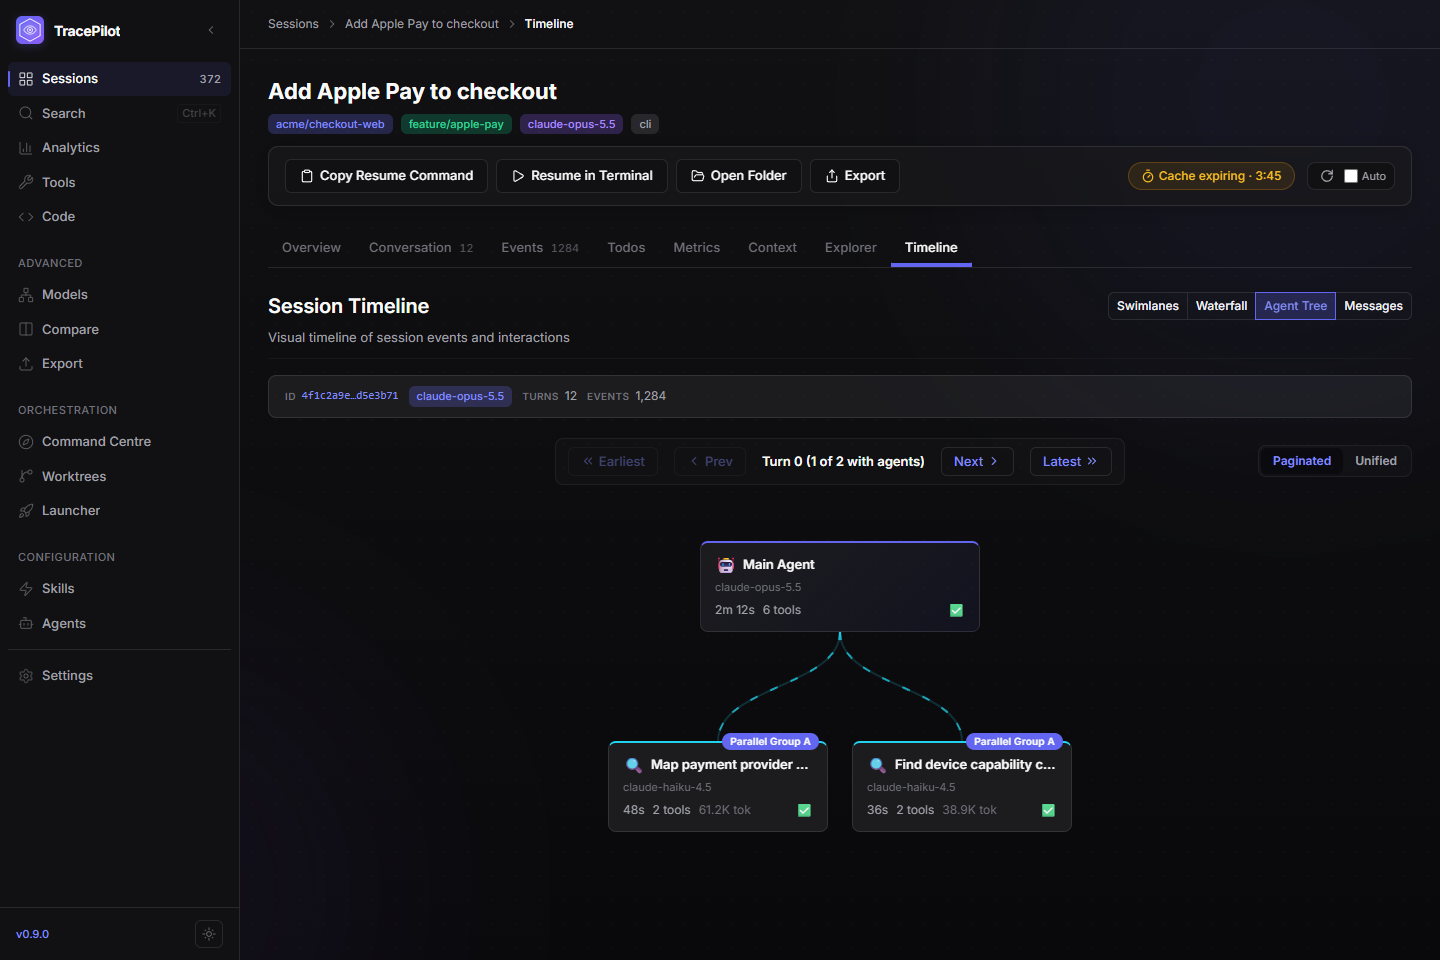
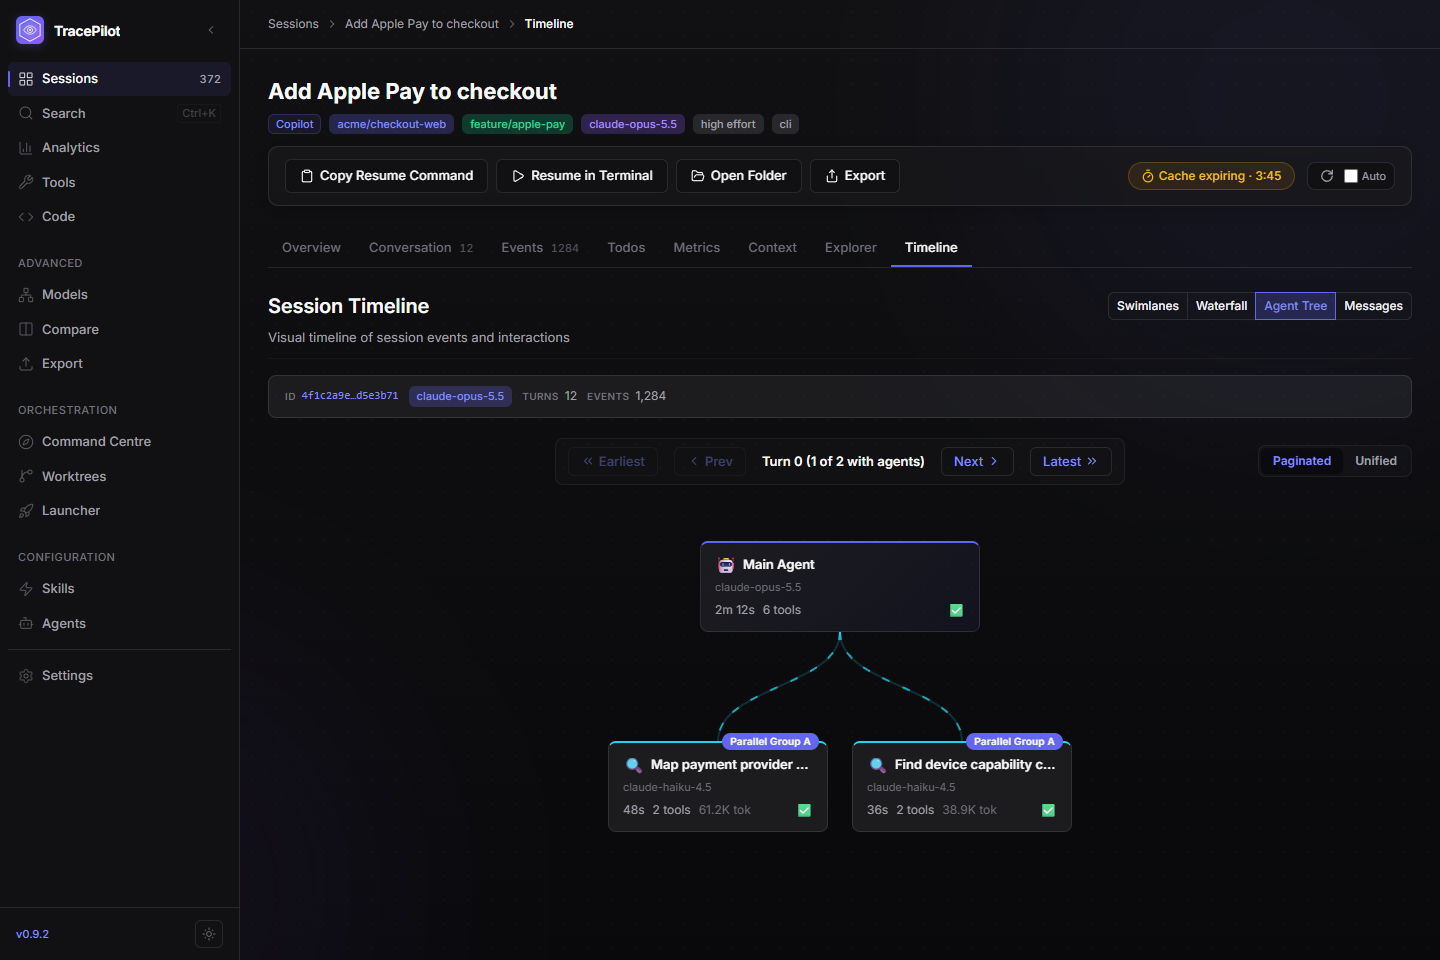
docs(readme): cover Claude Code sessions and refresh the screenshots
The README now describes TracePilot as a viewer for both Copilot CLI and
Claude Code sessions: where each source is read from, the source switch,
USD versus AI Credit costs, what stays Copilot-only, and the redesigned
Overview and analytics dashboards. The release how-to is cut to a pointer
to the release guide.

The README showcase now matches the current app:

- About a third of its sessions are Claude Code sessions (Claude Code
  model ids, no host), with Busy and Waiting run states.
- Analytics rows, costs and per-day USD are split by source; Tools has
  calls per day; the hero session has turn activity and high reasoning.
- The Analytics capture shows the Activity chart as lines, so Copilot and
  Claude Code read as two series. Capture `button` actions take a `role`.
- The visual harness turns Claude Code sessions on by default, as
  first-run setup does when it finds them. All 131 CI cases still
  capture without errors or missing fixtures.

The site export folds the showcase's sources back into its own
Copilot-priced view, so the landing page data is unchanged.

Changed region(s): [[0.1875, 0.0938, 0.5625, 0.1562]]

diff --git a/README.md b/README.md
@@ -5,14 +5,14 @@
 </p>
 
 <p align="center">
-  <strong>A desktop app for inspecting, searching, and launching GitHub Copilot CLI sessions.</strong>
+  <strong>A desktop app for inspecting, searching, and launching GitHub Copilot CLI and Claude Code sessions.</strong>
 </p>
 
-TracePilot is built for developers who use GitHub Copilot CLI heavily and want a clearer view of what happened across their sessions: prompts, assistant turns, subagents and the messages they exchange, tool calls, todos, checkpoints, context growth, prompt-cache state, token usage, AI Credits, search, and orchestration.
+TracePilot is built for developers who lean on coding agents and want a clearer view of what happened across their sessions: prompts, assistant turns, subagents and the messages they exchange, tool calls, todos, checkpoints, context growth, prompt-cache state, token usage, cost, search, and orchestration.
 
-It reads the session data Copilot CLI writes under `~/.copilot/session-state/` by default, indexes it locally, and presents it in a Tauri desktop app backed by Rust, SQLite, and Vue.
+It reads the sessions Copilot CLI writes under `~/.copilot/session-state/` and Claude Code writes under `~/.claude/projects/`, indexes them locally, and shows them side by side in a Tauri desktop app backed by Rust, SQLite, and Vue. Your session data stays on your machine.
 
-![TracePilot session library](docs/images/readme-session-list.png)
+![TracePilot session library with Copilot CLI and Claude Code sessions](docs/images/readme-session-list.png)
 
 > **Project status:** TracePilot is early-stage software. It is useful today, but the UI and internal data model still change quickly.
 >
@@ -33,22 +33,22 @@ It reads the session data Copilot CLI writes under `~/.copilot/session-state/` b
 
 ## What you can do
 
-### Inspect Copilot CLI sessions
+### Inspect sessions
 
-Browse your Copilot CLI session history as a searchable library, then open any session for a tabbed deep-dive:
+Browse your session history as a searchable library, filter it by source, repository, or folder, and see which sessions are **Busy** or **Waiting** right now. Open any session for a tabbed deep-dive:
 
 | Area | What it helps with |
 | --- | --- |
-| **Overview** | Session metadata, plan and checkpoint summaries, incidents, AI Credits, and high-level stats. |
+| **Overview** | Headline numbers, how the session ended, incidents, changes, plan and checkpoints, and turn activity over time. |
 | **Conversation** | User/assistant turns, reasoning, model switches, parallel subagents, skill invocations, tool calls, and rich tool-result renderers. |
 | **Events** | Raw session events with filtering and pagination for debugging parser or CLI behavior. |
 | **Todos** | Copilot's task state as a list or dependency graph. |
-| **Metrics** | AI Credits, token and cache usage per model or per agent, duration, code changes, and prompt-cache timing. |
+| **Metrics** | Cost, token and cache usage per model or per agent, duration, code changes, and prompt-cache timing. |
 | **Context** | How the context window grows by turn or over time (system prompt, tool definitions, conversation), where compactions happened, and which tools contribute most. |
 | **Explorer** | Files inside the session state directory, with viewers for Markdown, JSON/JSONL, CSV, SQLite, images, and more. |
 | **Timeline** | Swimlane, waterfall, and agent-tree views, plus a **Messages** view of how agents launched, messaged, and read back from each other. |
 
-The session header shows whether the prompt cache is warm, expiring, or expired, with a live countdown. Sessions can open in pop-out windows and auto-refresh while they run. Rich renderers cover common tool output such as diffs, patches, shell output, search and web-search results, SQL, file trees, `ask_user` prompts, and the agent-control tools (`read_agent`, `write_agent`, `list_agents`).
+The session header shows the model, reasoning effort, and whether the prompt cache is warm, expiring, or expired, with a live countdown. **Resume in Terminal** reopens a session in its folder. Sessions can open in pop-out windows and auto-refresh while they run. Rich renderers cover common tool output such as diffs, patches, shell output, search and web-search results, SQL, file trees, `ask_user` prompts, and the agent-control tools (`read_agent`, `write_agent`, `list_agents`).
 
 | Conversation | Agent timeline |
 | --- | --- |
@@ -58,17 +58,27 @@ The session header shows whether the prompt cache is warm, expiring, or expired,
 | --- | --- |
 | ![Sequence diagram of messages between agents](docs/images/readme-agent-messages.png) | ![Todo dependency graph](docs/images/readme-todos.png) |
 
-| Context | Metrics |
+| Overview | Context |
 | --- | --- |
-| ![Context window growth with a compaction](docs/images/readme-context.png) | ![Session metrics with cache breakdown](docs/images/readme-metrics.png) |
+| ![Session overview with headline numbers and turn activity](docs/images/readme-session-overview.png) | ![Context window growth with a compaction](docs/images/readme-context.png) |
+
+### Copilot CLI and Claude Code
+
+Claude Code sessions sit next to Copilot CLI sessions in the library, Conversation, Timeline, Metrics, Context, Search, Analytics, and Export. First-run setup turns them on when it finds Claude Code's folder (`CLAUDE_CONFIG_DIR`, else `~/.claude`); **Settings → Claude Code** changes the folder or turns them off.
+
+- Sessions, Search, and the analytics pages switch between **All**, **Copilot**, and **Claude Code**. Search also takes `source:copilot` and `source:claude`.
+- Copilot usage is priced in AI Credits and Claude Code usage in API-equivalent US dollars. With both sources, Analytics and Models total them in USD.
+- Launching, the SDK bridge, the config injector, todos, and the skills and agents editors stay Copilot-only.
+
+TracePilot only reads Claude Code's files. Claude Code deletes transcripts older than its `cleanupPeriodDays` setting (30 days by default), and **Settings → Claude Code** can raise it in one click. See [Claude Code sessions](docs/claude-code-sessions.md) for details.
 
 ### Search and analyze session history
 
 TracePilot maintains a local SQLite/FTS5 index so you can search across session metadata and conversation content without sending data to a remote service.
 
-The analytics views help answer questions such as:
+Analytics, Tools, and Code share a dashboard of per-day charts, split by source. They help answer questions such as:
 
-- Which repositories, models, and tools are consuming the most time, tokens, or AI Credits?
+- Which repositories, models, and tools are consuming the most time, tokens, or cost?
 - How well is the prompt cache working, and how often do sessions resume after it expired?
 - How often do tool calls fail, and which tools dominate a session?
 - Which files and file types are touched most often?
@@ -80,7 +90,7 @@ Available top-level analysis pages include Search, Analytics, Tools, Code Impact
 | --- | --- | --- |
 | ![Full-text search across sessions](docs/images/readme-search.png) | ![Analytics dashboard](docs/images/readme-analytics.png) | ![Tool analysis dashboard](docs/images/readme-tool-analysis.png) |
 
-### Understand agents and skills
+### Understand Copilot CLI agents and skills
 
 - **Agents** lists built-in, personal, and project Copilot CLI agents, plus agents seen only in sessions. Each has run counts, durations, and failure rates, a definition editor, its effective configuration, and `/subagents` model overrides.
 - **Skills** creates, edits, and imports Copilot CLI skills (including from GitHub through the `gh` CLI) and shows how often each skill is invoked, by whom, and how many tokens it injects. Unused, dormant, drifted, and shadowed skills are flagged.
@@ -97,8 +107,6 @@ The orchestration pages are for starting and organizing Copilot CLI work from th
 - **Session Launcher** builds Copilot CLI launch commands with repository, branch, model, reasoning effort, prompt, environment, and optional worktree settings.
 - **Worktree Manager** discovers registered repositories, creates/removes/prunes worktrees, fetches remotes, opens folders, and launches sessions from worktrees.
 
-TracePilot understands the newer Copilot CLI settings layout: user-editable settings belong in `~/.copilot/settings.json`, while CLI-managed internal state can remain in `~/.copilot/config.json`.
-
 | Session Launcher | Worktrees |
 | --- | --- |
 | ![Session launcher with a prepared launch](docs/images/readme-launcher.png) | ![Worktree manager](docs/images/readme-worktrees.png) |
@@ -107,8 +115,8 @@ TracePilot understands the newer Copilot CLI settings layout: user-editable sett
 
 Settings → Additional Features groups optional surfaces:
 
-- **Recommended:** Skills, Agents, Export, and Prompt Cache Insights are on by default. **Exact Context Capture** is opt-in and adds a CLI Context page that records and compares the exact context a session sends to the model.
-- **Experimental** (off by default):
+- **Recommended:** Skills, Agents, Export, and Prompt Cache Insights are on by default. **Exact Context Capture** is opt-in and adds a CLI Context page that records and compares the exact context a Copilot session sends to the model.
+- **Experimental** (off by default, Copilot CLI only):
   - **Copilot SDK Bridge**: steer sessions from TracePilot through the official Copilot SDK, and follow terminal sessions live when they run with `copilot --ui-server` (sessions TracePilot launches get this flag by default).
   - **MCP Servers**: add, import, configure, toggle, and health-check MCP servers compatible with Copilot CLI configuration.
   - **Session Replay**: step through session event timelines using indexed session data.
@@ -116,7 +124,7 @@ Settings → Additional Features groups optional surfaces:
 
 ### Export and share sessions
 
-TracePilot can export sessions as Markdown, TracePilot JSON, or raw session archives, with configurable sections and redaction options. Session-level export is available from session detail; the top-level Export page provides a broader export/import workflow.
+Export sessions as Markdown, TracePilot JSON, or raw session archives, with configurable sections and redaction. Claude Code sessions export as Markdown or JSON, always without account details. Export from a session's header, or use the Export page for bulk export and import.
 
 ---
 
@@ -125,15 +133,15 @@ TracePilot can export sessions as Markdown, TracePilot JSON, or raw session arch
 The README screenshots are generated rather than captured by hand. The
 [visual harness](docs/visual-regression.md#readme-screenshots) renders the real
 frontend at 1440×960 against a synthetic showcase workspace of fictional
-`acme/*` repositories, so the images contain no personal session data and can be
-refreshed after any UI change:
+`acme/*` repositories with both Copilot CLI and Claude Code sessions, so the
+images contain no personal session data and can be refreshed after any UI change:
 
 ```powershell
 node scripts/visual/capture.mjs --suite=readme --channel=msedge --docs
 ```
 
-More views are captured than this page embeds, including the
-[session overview](docs/images/readme-session-overview.png),
+More views are captured than this page embeds, including
+[session metrics](docs/images/readme-metrics.png),
 [session files](docs/images/readme-session-explorer.png),
 [code impact](docs/images/readme-code-impact.png),
 [model comparison](docs/images/readme-model-comparison.png),
@@ -152,7 +160,7 @@ wipe, overlay, and highlighted pixel differences. See
 ### Prerequisites
 
 - Windows with the WebView2 runtime, or macOS 12+ on Apple Silicon.
-- GitHub Copilot CLI with session history.
+- Session history from GitHub Copilot CLI, Claude Code, or both.
 - For source builds: Rust, Node.js 22, pnpm 10, and the Tauri 2 prerequisites.
   The exact known-good versions are recorded in `.node-version` and the root
   `packageManager` field.
@@ -202,7 +210,7 @@ TracePilot/
 │   ├── desktop/                    # Tauri 2 desktop app, Vue 3 frontend
 │   └── cli/                        # Experimental TypeScript CLI utilities
 ├── crates/
-│   ├── tracepilot-core/            # Session parsing, models, analytics
+│   ├── tracepilot-core/            # Copilot CLI and Claude Code parsing, analytics
 │   ├── tracepilot-indexer/         # SQLite + FTS5 indexing and queries
 │   ├── tracepilot-export/          # Markdown/JSON/raw exports and imports
 │   ├── tracepilot-orchestrator/    # Worktrees, launcher, config injection
@@ -222,8 +230,8 @@ TracePilot/
 The main data flow is:
 
 ```text
-Copilot session files
-  -> tracepilot-core parses JSONL/YAML/SQLite session data
+Copilot CLI and Claude Code session files
+  -> tracepilot-core parses each source's JSONL/YAML/SQLite session data
   -> tracepilot-indexer stores searchable metadata/content in SQLite FTS5
   -> tracepilot-tauri-bindings exposes typed Tauri commands
   -> @tracepilot/client calls those commands from Vue/Pinia views
@@ -233,6 +241,7 @@ Useful deeper docs:
 
 - [Architecture overview](docs/architecture/overview.md)
 - [Data integration guide](docs/data-integration-guide.md)
+- [Claude Code sessions](docs/claude-code-sessions.md)
 - [Testing guide](docs/testing.md)
 - [On-disk paths](docs/on-disk-paths.md)
 - [Performance playbook](docs/performance-playbook.md)
@@ -275,15 +284,7 @@ cover the remaining guides and supported developer commands.
 
 ### Versioning and releases
 
-The workspace version is centralized in the root `Cargo.toml` and mirrored into package metadata by the release tooling.
-
-```powershell
-.\scripts\bump-version.ps1 -Version <version>
-```
-
-The script updates only the root and pnpm workspace package manifests, leaving third-party test fixtures and local Copilot packages at their own versions. It requires pnpm and `cargo-edit` (`cargo install cargo-edit`).
-
-After a version bump, update `CHANGELOG.md` and `apps/desktop/public/release-manifest.json`, run the validation gates, and open a PR to `main`. Once the PR is merged, tag the merged commit with `v<version>` and push that tag to trigger the repository release workflow. The [release guide](docs/releasing.md) has the full checklist and note-writing conventions.
+The workspace version lives in the root `Cargo.toml`, and `.\scripts\bump-version.ps1 -Version <version>` mirrors it into the package manifests. A release is tagged `v<version>` after its PR merges; the [release guide](docs/releasing.md) has the full checklist.
 
 ---
 
@@ -293,7 +294,8 @@ Current near-term areas:
 
 - Make the Copilot SDK bridge reliable enough to graduate from experimental.
 - Improve live-session monitoring and alerting.
-- Continue hardening parser coverage as Copilot CLI evolves.
+- Continue hardening parser coverage as Copilot CLI and Claude Code evolve.
+- Bring more Copilot-only tools to Claude Code, and make room for other agent CLIs.
 - Polish export/import workflows and team-shareable reports.
 - Expand platform validation beyond Windows.
 

diff --git a/docs/visual-regression.md b/docs/visual-regression.md
@@ -419,9 +419,10 @@ under `--out` (default `.tracepilot/visual/`) for review. README cases are not
 part of PR visual CI and do not change its 101-view inventory.
 
 Their data comes from [`showcase/`](../scripts/visual/showcase/index.mjs): about
-370 sessions across fictional `acme/*` repositories, with analytics, tools,
-code-impact and model totals derived from those same sessions so every page
-agrees. One running session ("Add Apple Pay to checkout") supplies the
+370 sessions across fictional `acme/*` repositories, about a third of them
+recorded by Claude Code, with analytics, tools, code-impact and model totals
+(split by source, Claude Code priced in USD) derived from those same sessions so
+every page agrees. One running session ("Add Apple Pay to checkout") supplies the
 conversation, parallel agents and inter-agent messages, todo dependencies,
 context compaction, prompt-cache window, metrics, plan and files. Repositories
 and worktrees are returned per repository, as the backend does. Commands the
@@ -430,7 +431,8 @@ mocks. README cases pin the clock to the showcase's own date, use the app's
 default features (plus any listed per case), show the workspace version in the
 sidebar, and mark it as already seen so the release-notes dialog stays closed.
 
-Cases can prepare a view with `actions`: `button` (click by accessible name),
+Cases can prepare a view with `actions`: `button` (click by accessible name;
+`role` reaches other roles such as a segmented control's `radio`),
 `select` (choose an option by label or value), `fill` (type into a labelled
 field) and `scroll` (bring a selector to a fixed offset below the top of the
 page's scroll container). After regenerating, inspect every image: each one
